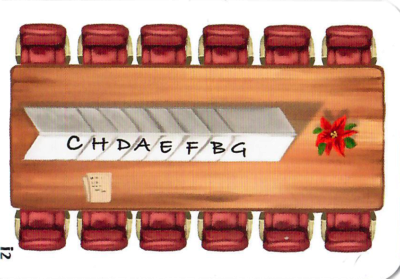
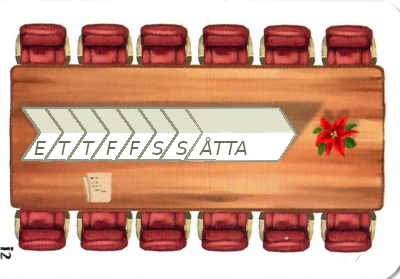
dec09

Changed region(s): [[0.03, 0.3728, 0.75, 0.6022]]

diff --git a/docs/dec09.html b/docs/dec09.html
@@ -1,1 +1,21 @@
 <section><h2>Nionde December</h2><p>Ha en bra måndag!</p></section>
+<section>
+	<h2>Den tysta stormen</h2>
+	<p>Här följer dagens instruktioner.</p>
+	<p>&nbsp;</p>
+	<p>Även dessa utgör ett problem, där</p>
+	<p>svaret är ett tresiffrigt tal!</p>
+	<p>&nbsp;</p>
+	<p><a href="https://simplycalc.com/luhn-calculate.php">Checksiffran för koden</a></p>
+	<p>för nionde december är en sjua!</p>
+</section>
+<section class="image-slide">
+	<a href="images/dec9a.png" data-lightbox="dec9r"><img data-src="images/dec9a.png"></a>
+</section>
+<section>
+	<a href="images/exit-kort-i1.png" data-lightbox="dec9r"><img data-src="thumbs/exit-kort-i1.png"></a>
+	<a href="images/exit-kort-i2.png" data-lightbox="dec9r"><img data-src="thumbs/exit-kort-i2.png"></a>
+  <br/>
+	<a href="images/table-placement.png" data-lightbox="dec9r"><img data-src="thumbs/table-placement.png"></a>
+	<a href="images/placement-cards.png" data-lightbox="dec9r"><img data-src="thumbs/placement-cards.png"></a>
+</section>
